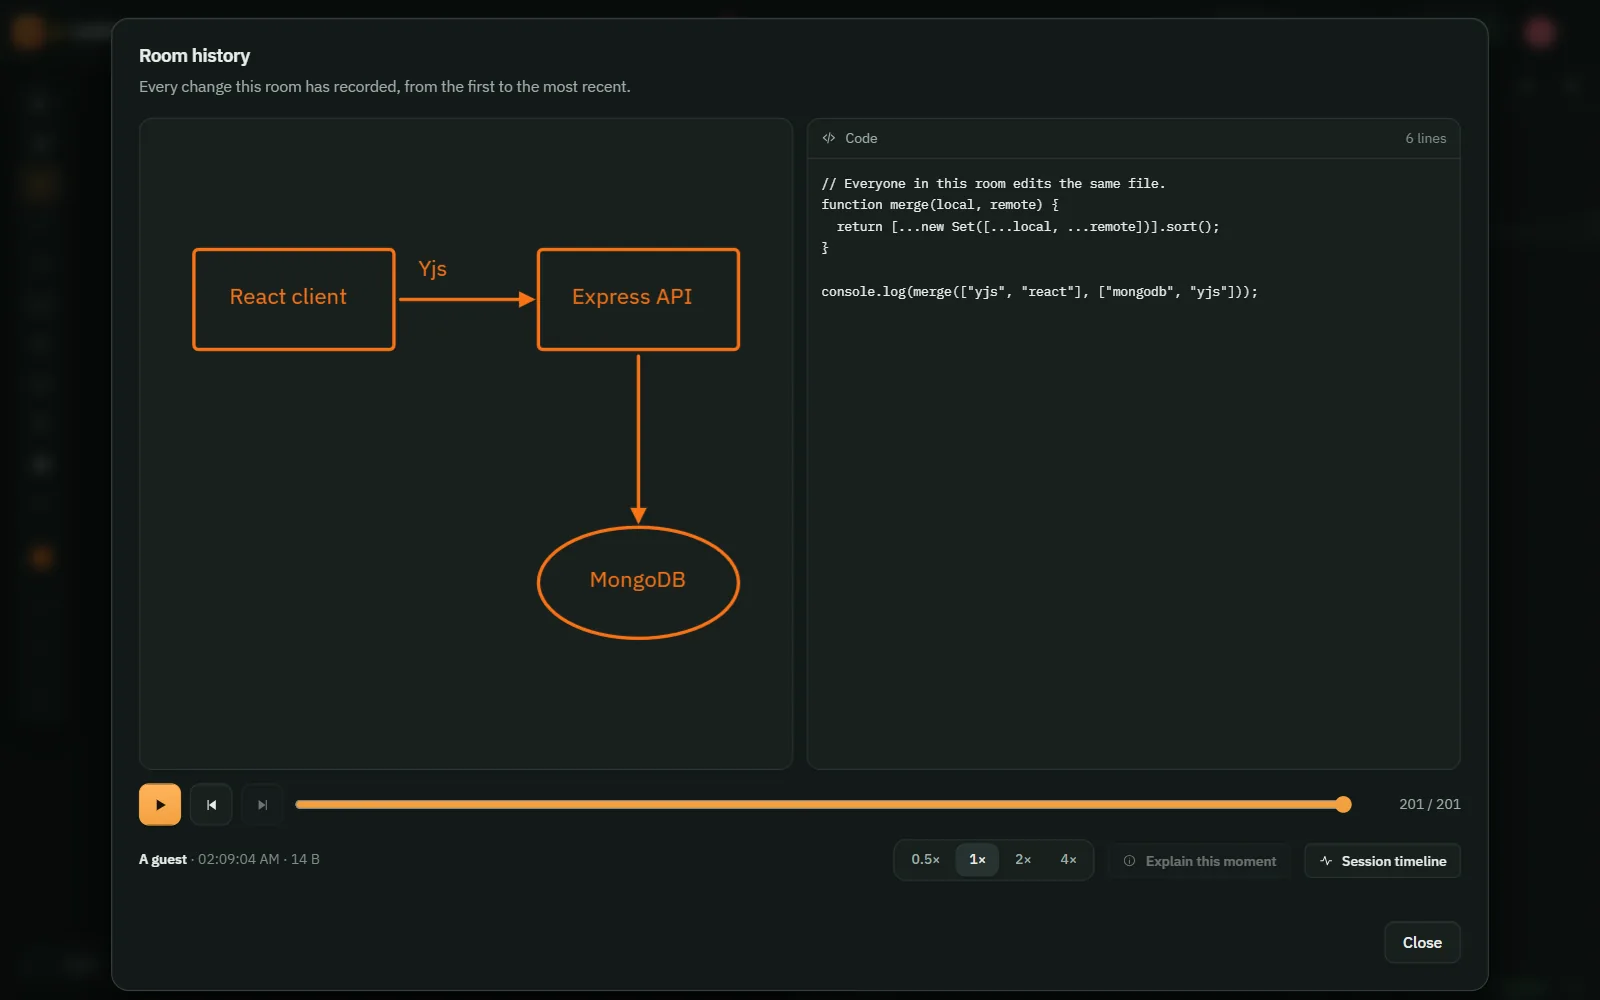
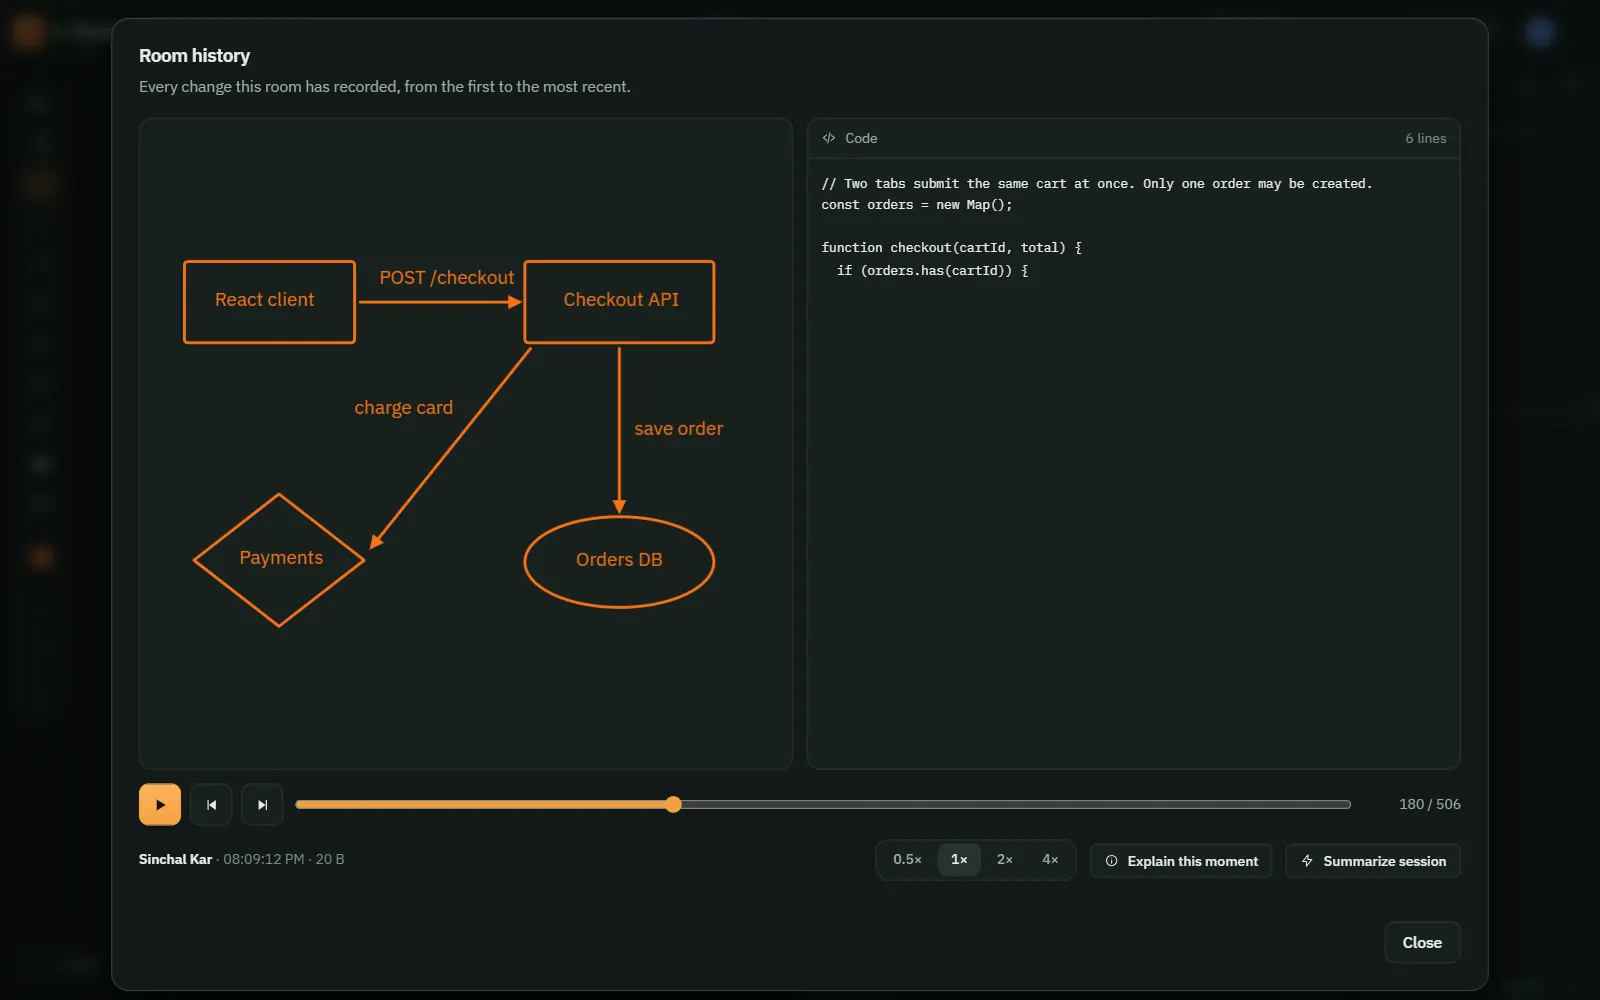
Show every SyncSpace feature with a picture and a description
The SyncSpace case study now has fifteen pictures, each with a title and a
short description: the room, live chat, comments on shapes and code, the
engineering copilot, people and roles, shared files, room history, the session
timeline, the command palette, the dashboard, signed-in devices, the API
documentation, CI, and the landing page.

The new pictures were taken from the repository running locally with demo
accounts and a demo room. The copilot picture shows its panel and the actions
it offers, not an answer. The descriptions follow the repository's README.

diff --git a/src/data/portfolio.js b/src/data/portfolio.js
@@ -213,7 +213,26 @@ export const techStack = {
 //   screenshots  Gallery on the case-study page. Leave the list empty and the gallery is hidden.
 //   proof        The animated evidence for the result. Shown on the case-study page.
 //   links        Any link left out hides its button.
-const shot = (slug, file, alt) => ({ src: `/projects/${slug}/${file}.webp`, width: 1600, height: 1000, alt });
+//   alt      what the picture shows, for people who cannot see it
+//   title    optional heading shown under the picture
+//   caption  optional description shown under the picture
+const shot = (slug, file, alt, title, caption) => ({
+  src: `/projects/${slug}/${file}.webp`,
+  width: 1600,
+  height: 1000,
+  alt,
+  title,
+  caption,
+});
+
+// SyncSpace's cover: the picture on its home-page card and the large one at the top of its case study.
+const syncspaceCover = shot(
+  "syncspace",
+  "01-room",
+  "A SyncSpace room with two people in it: an architecture sketch on the shared whiteboard, a guest's live cursor, and the code editor showing the output of a run",
+  "A whiteboard and a code editor in one room",
+  "Two people draw and type in the same room at the same time. Each sees the other's cursor, edits merge through Yjs CRDTs instead of overwriting each other, and a run's output is shown to everyone.",
+);
 
 export const projects = {
   heading: "Selected work",
@@ -233,11 +252,7 @@ export const projects = {
         live: "https://sync-space-client-gray.vercel.app",
         github: "https://github.com/sinchalkar001-dev/SyncSpace",
       },
-      cover: shot(
-        "syncspace",
-        "01-room",
-        "A SyncSpace room with two people in it: an architecture sketch on the shared whiteboard, a guest's live cursor, and the code editor showing the output of a run",
-      ),
+      cover: syncspaceCover,
       overview:
         "SyncSpace is a shared whiteboard and code editor that several people can use in the same room at the same time. I built it during my internship at Axlero Innovative Solutions and took it from a written specification to a live deployment.",
       built:
@@ -277,28 +292,107 @@ export const projects = {
         },
       ],
       stack: ["React", "Yjs", "WebSockets", "Socket.io", "Node.js", "Express", "MongoDB", "Docker", "Playwright", "Vercel", "Render"],
+      // One picture per feature. Each has a title and a description, shown under it and in the full-screen viewer.
       screenshots: [
+        syncspaceCover,
         shot(
           "syncspace",
-          "01-room",
-          "A SyncSpace room with two people in it: an architecture sketch on the shared whiteboard, a guest's live cursor, and the code editor showing the output of a run",
+          "06-chat",
+          "A SyncSpace room with the chat panel open: four messages between Sinchal Kar and Priya about a declined card, above the shared board and code",
+          "Live chat",
+          "Messages reach everyone in the room over Socket.io, without leaving the board. They are live only: nothing is stored, and an unread count on the button catches whatever arrives while the panel is shut.",
+        ),
+        shot(
+          "syncspace",
+          "07-comments",
+          "The SyncSpace comments panel with two open threads, one on line 5 of the code and one on the Payments shape, which carries a pin counting two messages",
+          "Comments on shapes, code and files",
+          "Threads are pinned to a shape, a line of code or a shared file, with replies, @mentions and resolve. A code comment is anchored to the characters themselves, so it stays with its code as lines are added above it.",
+        ),
+        shot(
+          "syncspace",
+          "08-copilot",
+          "The SyncSpace copilot panel in its whiteboard context, offering to explain or review the architecture, generate code or an API, find risks and plan the implementation",
+          "Engineering copilot",
+          "One panel that offers what fits the work in front of you: explain or review the architecture on the board, find a bug in the code, diagnose a failed run, summarise the session. It lists what it read, and nothing it proposes is applied without review.",
+        ),
+        shot(
+          "syncspace",
+          "09-people",
+          "The SyncSpace roster: the owner and an editor in the room now, a member who is away with the Runner role, a pending invitation, and a field to invite by email",
+          "People, roles and invitations",
+          "The roster shows who is in the room and what each person is doing, with follow and go-to. Six roles from viewer to owner are enforced on the server, including a runner who may run the code but not change it. An invitation is tied to one address and expires.",
+        ),
+        shot(
+          "syncspace",
+          "10-files",
+          "The SyncSpace files panel listing three shared files, a text schema, a PNG and a Markdown note, each with save and comment controls",
+          "Shared files",
+          "Images, PDFs and text files up to 10 MB, shared with everyone in the room. Each file can carry its own comment thread.",
         ),
         shot(
           "syncspace",
           "02-history",
-          "SyncSpace room history: a scrubber that replays every recorded change to the board and the code",
+          "SyncSpace room history paused at change 180 of 506: the finished diagram beside code that is still only six lines long",
+          "Room history",
+          "Every change is appended to a log, so a room can be replayed from its first stroke. Dragging the scrubber rebuilds the board and the code as they stood at that change.",
+        ),
+        shot(
+          "syncspace",
+          "11-timeline",
+          "SyncSpace room history with the session timeline open: components added and connected, code added, a successful run, chat and comments, each with its time",
+          "Session timeline",
+          "Built from the room's own record, with no model involved: what was drawn and connected, which functions were added, which runs passed, who commented. Each entry jumps the replay to that moment.",
+        ),
+        shot(
+          "syncspace",
+          "12-palette",
+          "The SyncSpace command palette listing view and board commands with their keyboard shortcuts",
+          "Command palette",
+          "Ctrl+K lists the room's commands: switch the view, pick a drawing tool, run the code, change the language, open the history or the copilot.",
+        ),
+        shot(
+          "syncspace",
+          "13-dashboard",
+          "The SyncSpace dashboard for a signed-in user: a room to resume, three rooms filtered by type, and a feed of recent activity",
+          "Dashboard",
+          "Signed-in users get their rooms, filtered by type, with who is in each one and a feed of recent activity. Rooms are private and invite-only until their owner makes them public.",
+        ),
+        shot(
+          "syncspace",
+          "14-devices",
+          "The SyncSpace signed-in devices dialog listing Safari on iPhone and Chrome on Windows, the second marked as this device",
+          "Signed-in devices",
+          "Every browser holding a session for the account. Signing one out takes effect at once: its live document and presence connections are closed on the spot.",
+        ),
+        shot(
+          "syncspace",
+          "15-api-docs",
+          "The Swagger page for the SyncSpace API, listing the health and auth endpoints",
+          "API documentation",
+          "The REST API is described in OpenAPI and served as a browsable page by the API itself: accounts, rooms, invitations and replay.",
         ),
         shot(
           "syncspace",
           "05-ci",
           "GitHub Actions run for SyncSpace with all four jobs passing: secret scan, client, server and end-to-end tests",
+          "Continuous integration",
+          "GitHub Actions runs four jobs on every push: a secret scan, the client tests, the server tests, and Playwright end-to-end tests that drive two browsers.",
         ),
         shot(
           "syncspace",
           "03-home",
           "SyncSpace home page: Draw and code in the same room, with a form to start or join a public room",
+          "Landing page",
+          "Anyone can start or join a public room as a guest, with no account. Signing in adds private rooms, invitations and the dashboard.",
         ),
-        shot("syncspace", "04-features", "Lower part of the SyncSpace home page: a preview of a room above its four features"),
+        shot(
+          "syncspace",
+          "04-features",
+          "Lower part of the SyncSpace home page: a preview of a room above its four features",
+          "What it is built on",
+          "The four ideas the landing page leads with: conflict-free merging, live cursors and carets, a history that can be replayed, and rooms that are private until they are shared.",
+        ),
       ],
     },
     {
